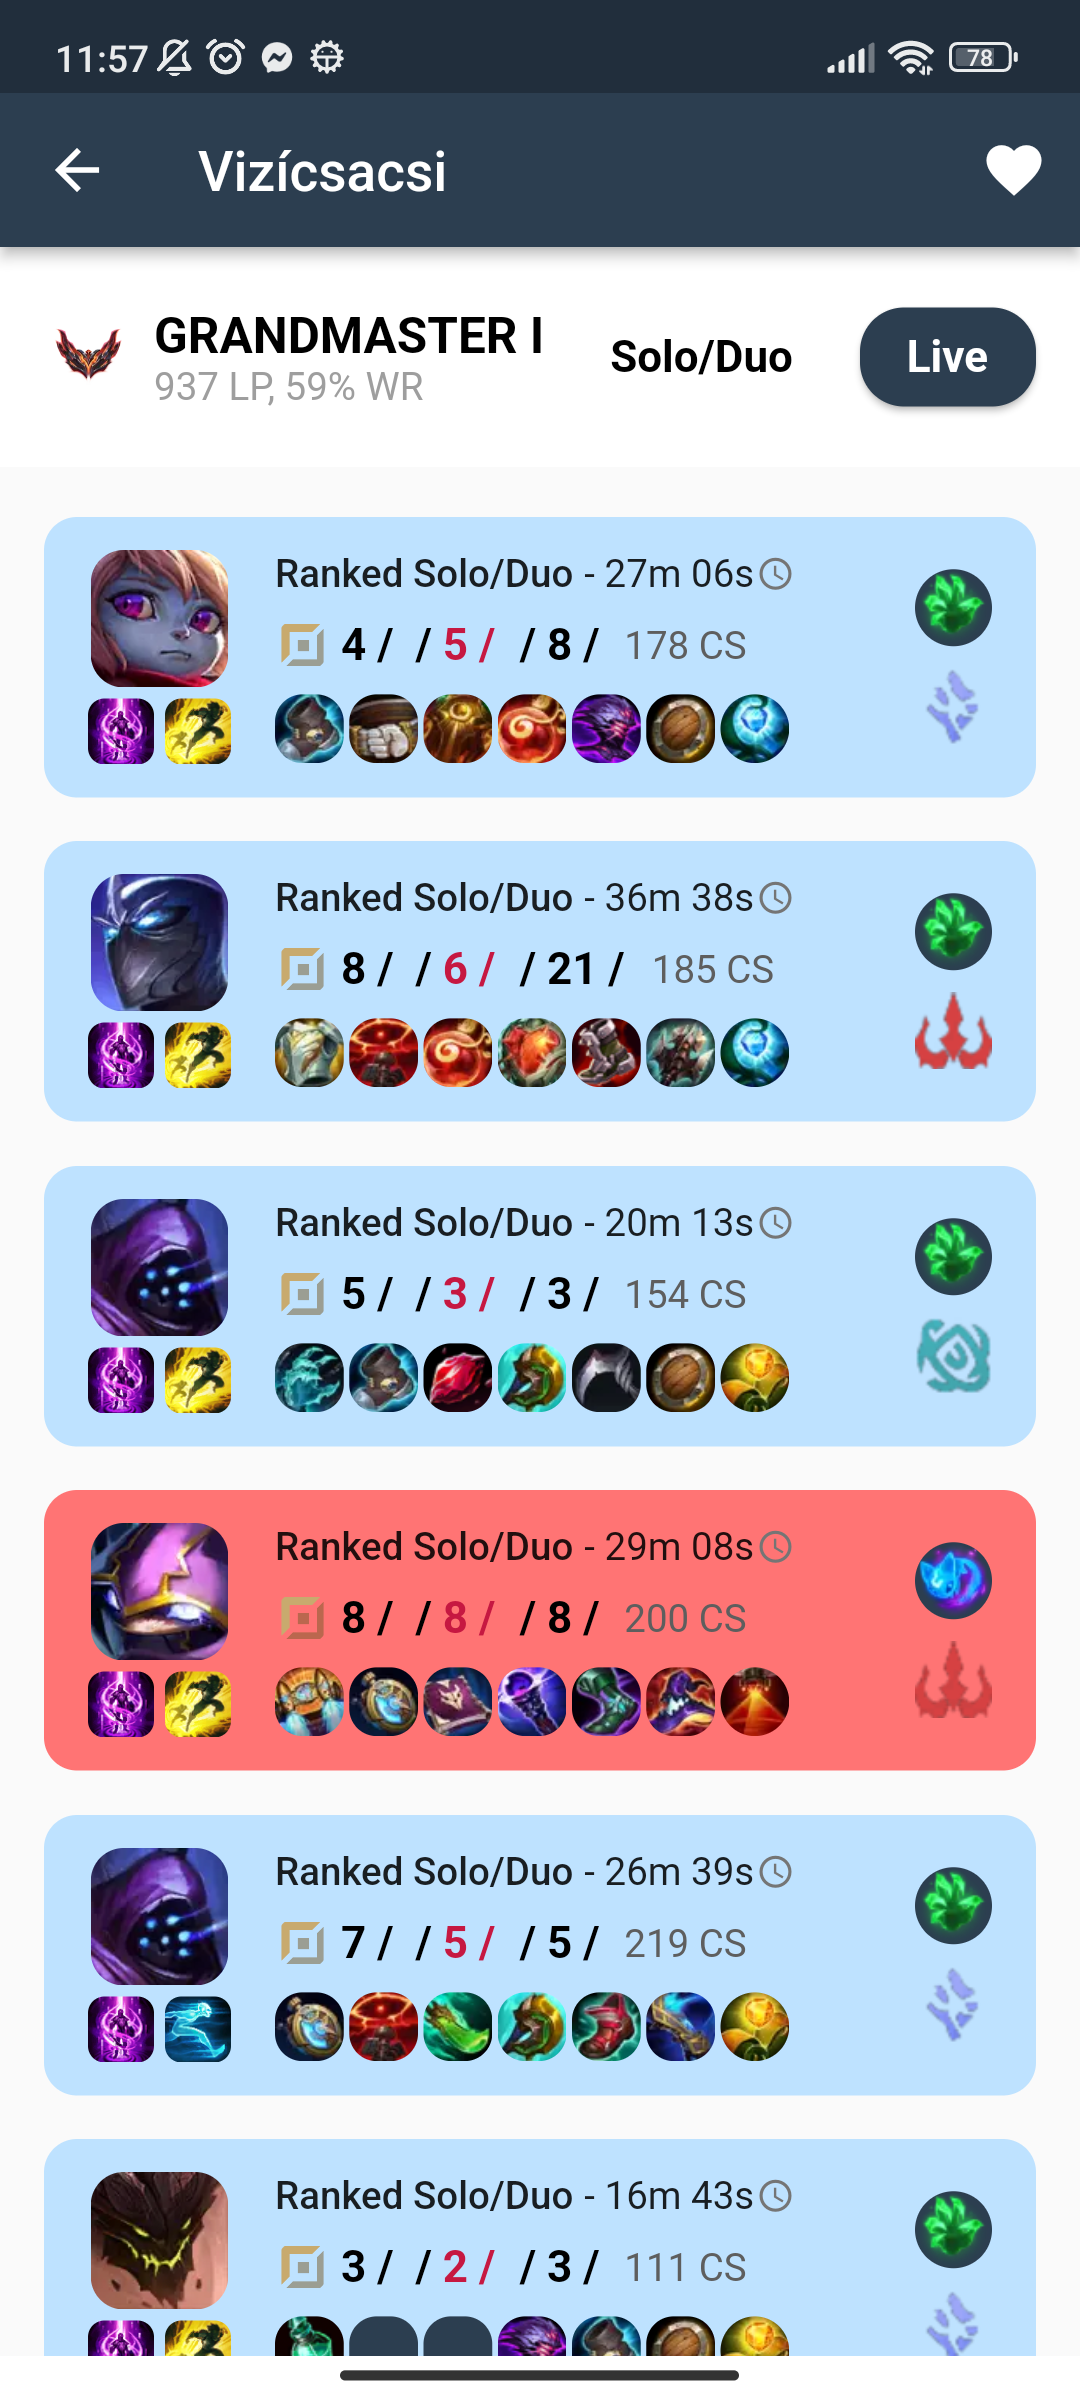
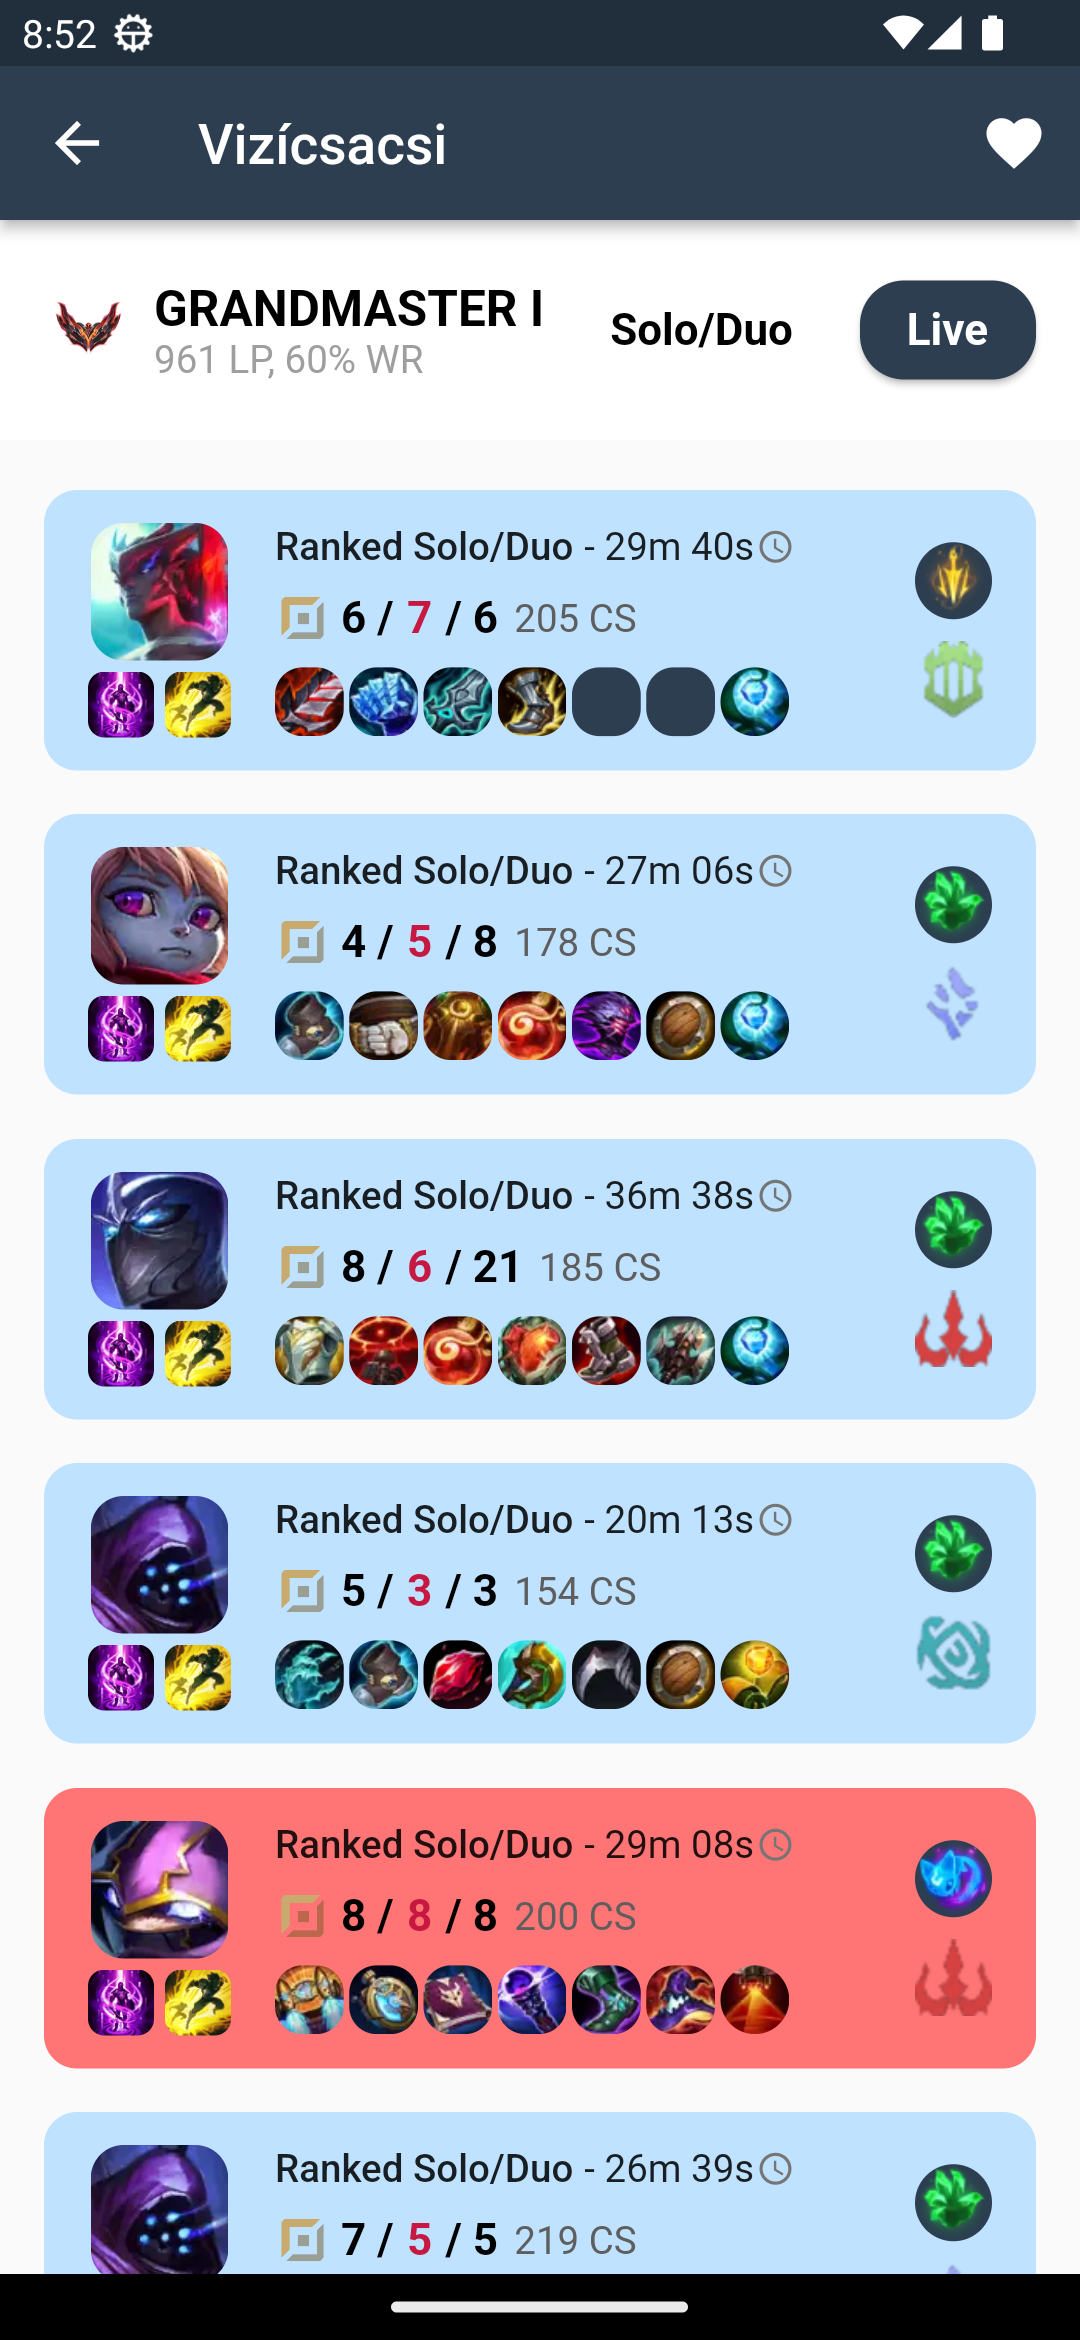
screenshots fix

diff --git a/flutter_league/lib/utils/config.dart b/flutter_league/lib/utils/config.dart
@@ -1,10 +1,9 @@
-// Importing the required module
 import 'package:flutter_riot_api/utils/riotdata_formatter.dart';
 
 // Defining a Config class
 class Config {
   // Static string variable to store the Riot Games API key
-  static String apikey = "RGAPI-a08518b3-6007-40a0-b7e6-8a2d57a49e07";
+  static String apikey = "<API-KEY>";
 
   // Static string variable to store the base URL for API requests
   static String apiUrl = "https://$currentServer.api.riotgames.com/lol/";

diff --git a/flutter_league/lib/screens/match_info.dart b/flutter_league/lib/screens/match_info.dart
@@ -385,7 +385,7 @@ class MatchInfoPage extends StatelessWidget {
 
   Text _buildKDAText(String text, Color color) {
     return Text(
-      "$text / ",
+      text,
       style: TextStyle(
         color: color,
         fontSize: 16.0,

diff --git a/flutter_league/lib/widgets/match_item.dart b/flutter_league/lib/widgets/match_item.dart
@@ -221,7 +221,7 @@ class MatchItem extends StatelessWidget {
 
   Text _buildKDAText(String text, Color color) {
     return Text(
-      "$text / ",
+      text,
       style: TextStyle(
         color: color,
         fontSize: 16.0,
